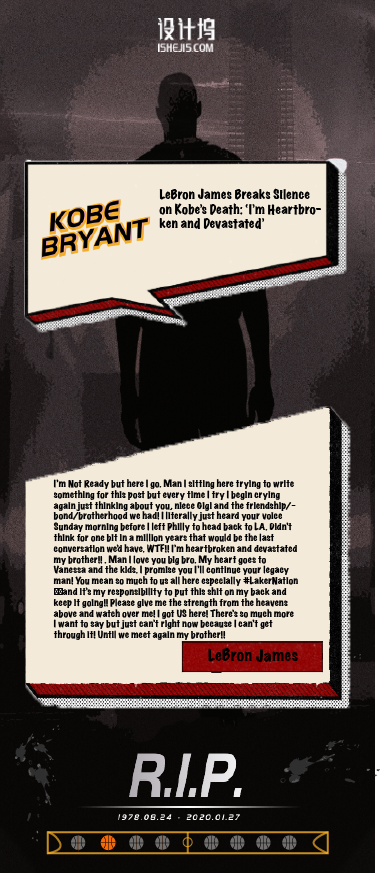
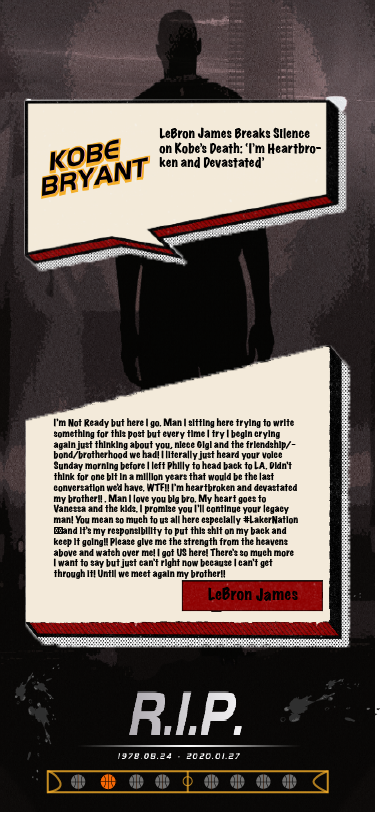
Add files via upload

diff --git a/kobe/index.html b/kobe/index.html
@@ -8,50 +8,10 @@
 
 </head>
 <body>
+		<div class="kobe3"></div>
+
 	
-	<h1>
-		QSHAQ IM SICK RIGHT NOW
-	</h1>
-
-
-	<p>There’s no words to express the pain Im going through with this tragedy of loosing my neice Gigi & my brother <strong
->@kobebryant</strong> I love u and u will be missed. My condolences goes out to the Bryant family and the families of the other passengers on board.</p>
-<img src="3.png">
-
-<h2>John Paxson, on behalf of the Bulls.
-</h2>
-<p>The Chicago Bulls organization is terribly saddened about the sudden passing of Kobe Bryant, his daughter Gianna, and the other passengers in today’s horrific helicopter crash in California. While he leaves us far too soon, his legacy and persona will forever be remembered. One of the best to have ever played the game of basketball, we extend our deepest sympathies to the Bryant family and the other families affected.
-</p>
-<img src="2.png">
-
-<h3>
-	Bill Russell
-
-</h3>
-
-<p>Jeannine & I are absolutely shocked to hear of the loss of one of my favorite people & one of the best basketball minds in the history of the game! Our hearts & prayers to Vanessa & his girls. <strong
->@kobebryant</strong> you were my biggest fan, but I was yours 
-Mamba Forever.
- 
-
-</p>
-<img src="1.png">
-
-<h4>Nike
-
-</h4>
-<img src="4.png">
-<h5>
-	LeBron James Breaks Silence on Kobe’s Death: ‘I’m Heartbroken and Devastated’
-
-
-</h5>
-<p>
-I’m Not Ready but here I go. Man I sitting here trying to write something for this post but every time I try I begin crying again just thinking about you, niece Gigi and the friendship/bond/brotherhood we had! I literally just heard your voice Sunday morning before I left Philly to head back to LA. Didn’t think for one bit in a million years that would be the last conversation we’d have. WTF!! I’m heartbroken and devastated my brother!!  Man I love you big bro. My heart goes to Vanessa and the kids. I promise you I’ll continue your legacy man! You mean so much to us all here especially #LakerNationand it’s my responsibility to put this shit on my back and keep it going!! Please give me the strength from the heavens above and watch over me! I got US here! There’s so much more I want to say but just can’t right now because I can’t get through it! Until we meet again my brother!! 
-
-
-</p>
-<img src="5.png">
-
+	
+<img src="kobe3.png">
 </body>
 </html>

diff --git a/kobe/style.css b/kobe/style.css
@@ -1,11 +1,11 @@
 
-.kobe3.png {
+.kobe3 {
 	position:absolute;
 	top:0;
 	left:0;
 	width:100vw;
 	height:100vw;
-	background-image:url("bg.jpg");
+	background-image:url("kobe3.png");
 	background-size:cover;
 	background-position:center;
 
